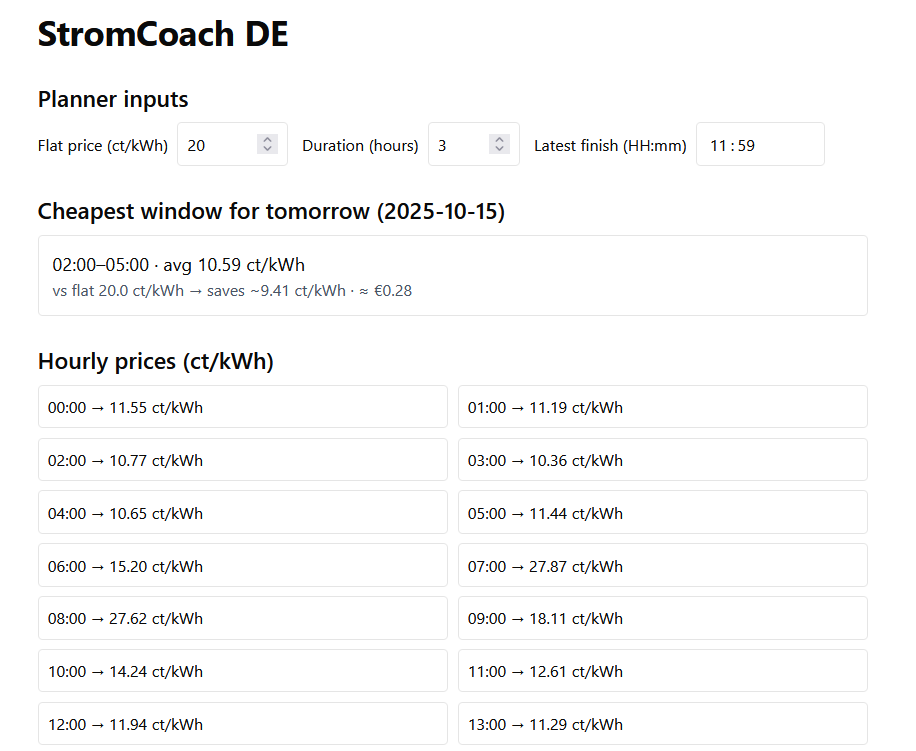
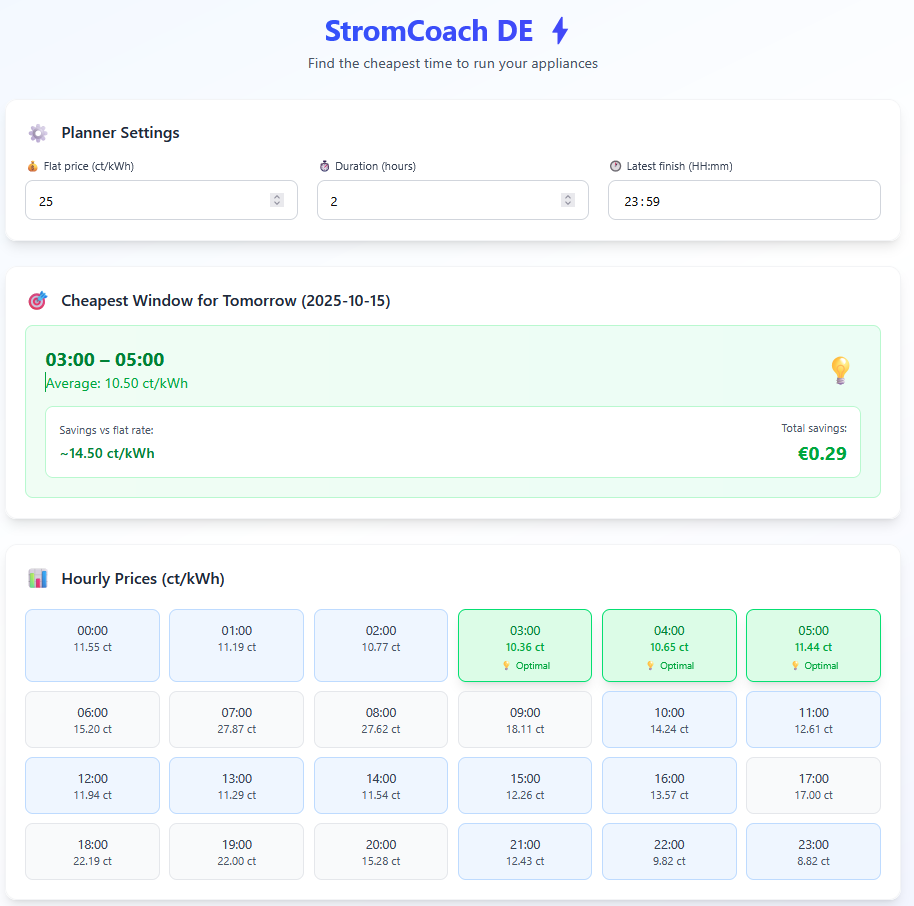
changed screenshot

diff --git a/README.md b/README.md
@@ -14,8 +14,6 @@ The app fetches real-time electricity prices for Germany (DE-LU region) and find
 
 ![StromCoach DE Interface](./Screenshot.png)
 
-*Note: Replace this placeholder with your actual screenshot*
-
 ## Features
 
 -  **Real-time Price Data**: Fetches tomorrow's hourly electricity prices from Energy Charts API
